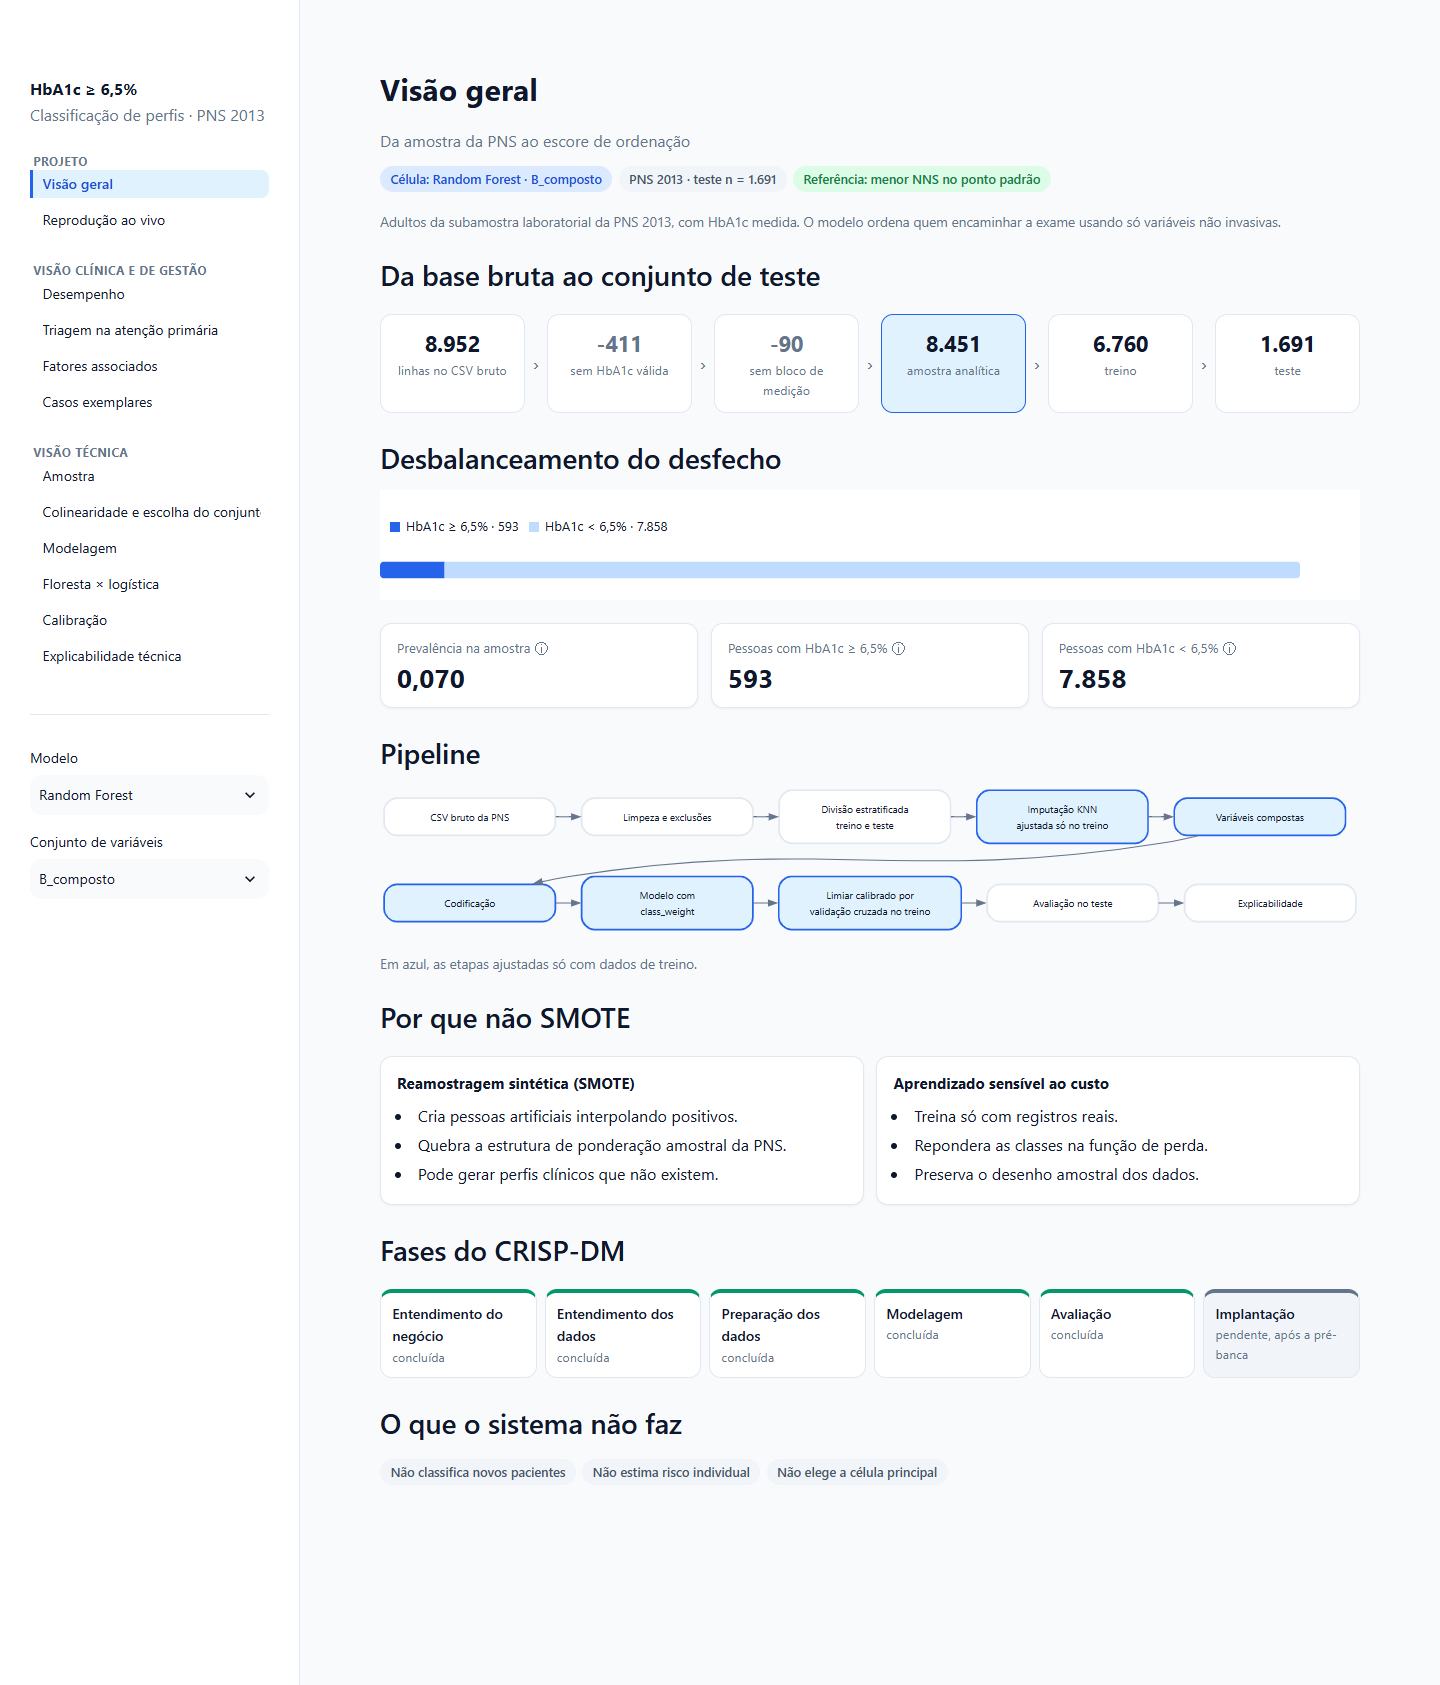
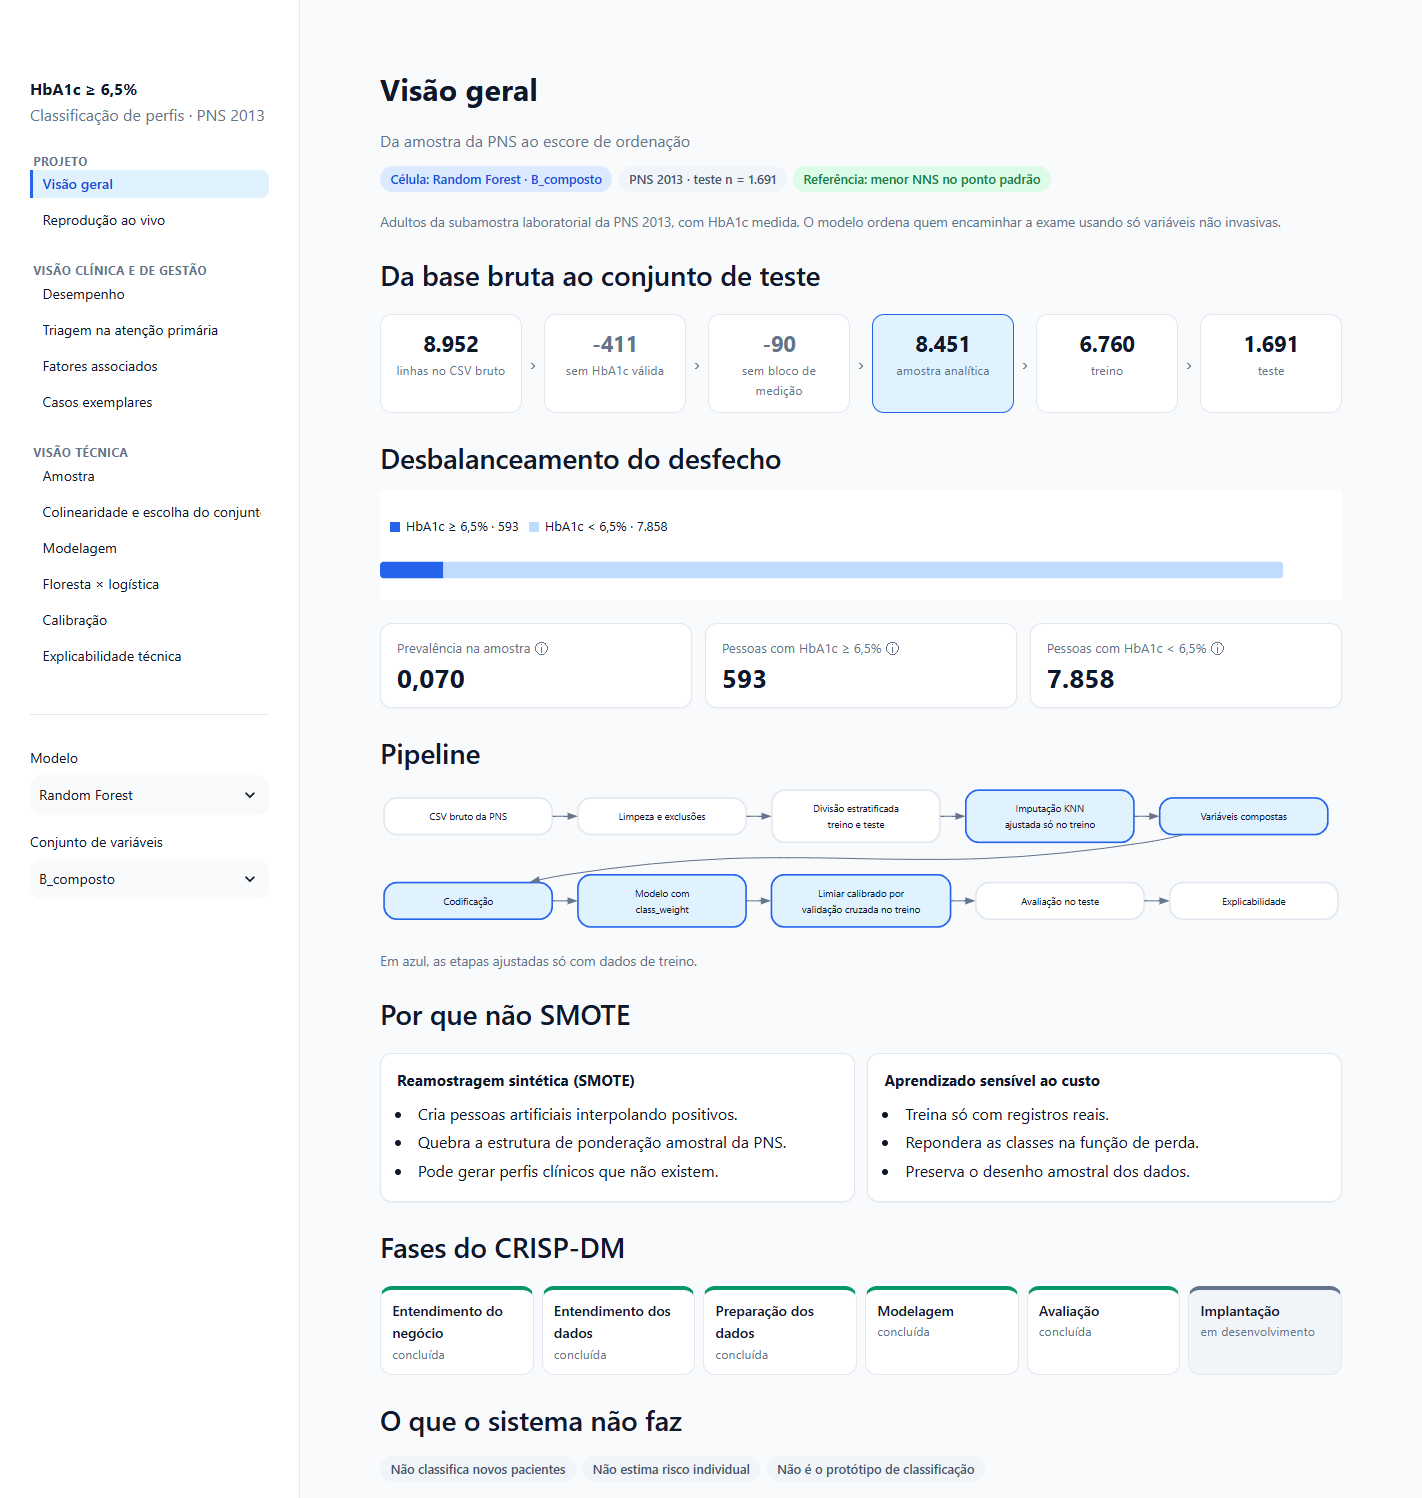
Atualiza o texto do painel e a escala dos encaminhados.
A implantação deixa de citar a pré-banca, o painel deixa explícito que não é o protótipo de classificação, e o eixo do gráfico passa a ir até 100% para o rótulo não sair cortado.

diff --git a/painel/textos.py b/painel/textos.py
@@ -212,14 +212,16 @@ CRISP_DM = [
     ("Preparação dos dados", "concluída", True),
     ("Modelagem", "concluída", True),
     ("Avaliação", "concluída", True),
-    ("Implantação", "pendente, após a pré-banca", False),
+    # Na recaptura final: "concluída", True se o FastAPI estiver pronto;
+    # "pendente", False se não estiver.
+    ("Implantação", "em desenvolvimento", False),
 ]
 
 NAO_FAZ_TITULO = "O que o sistema não faz"
 NAO_FAZ = [
     "Não classifica novos pacientes",
     "Não estima risco individual",
-    "Não elege a célula principal",
+    "Não é o protótipo de classificação",
 ]
 
 REPRODUCAO_COMANDO = "Comando"

diff --git a/painel/graficos.py b/painel/graficos.py
@@ -211,7 +211,8 @@ def barras_encaminhados(df: pd.DataFrame, casas) -> alt.Chart:
         y=alt.Y("rotulo:N", sort=list(dados["rotulo"]), title=None,
                 axis=alt.Axis(labelLimit=440, labelOverlap=False, labelFontSize=12)),
         x=alt.X("taxa_encaminhamento:Q", title="encaminhados a exame",
-                axis=alt.Axis(format="%")),
+                axis=alt.Axis(format="%"),
+                scale=alt.Scale(domain=[0, 1])),
     )
     barras = base.mark_bar(height=26, cornerRadiusEnd=4).encode(
         color=alt.Color("regime_id:N", legend=None,
